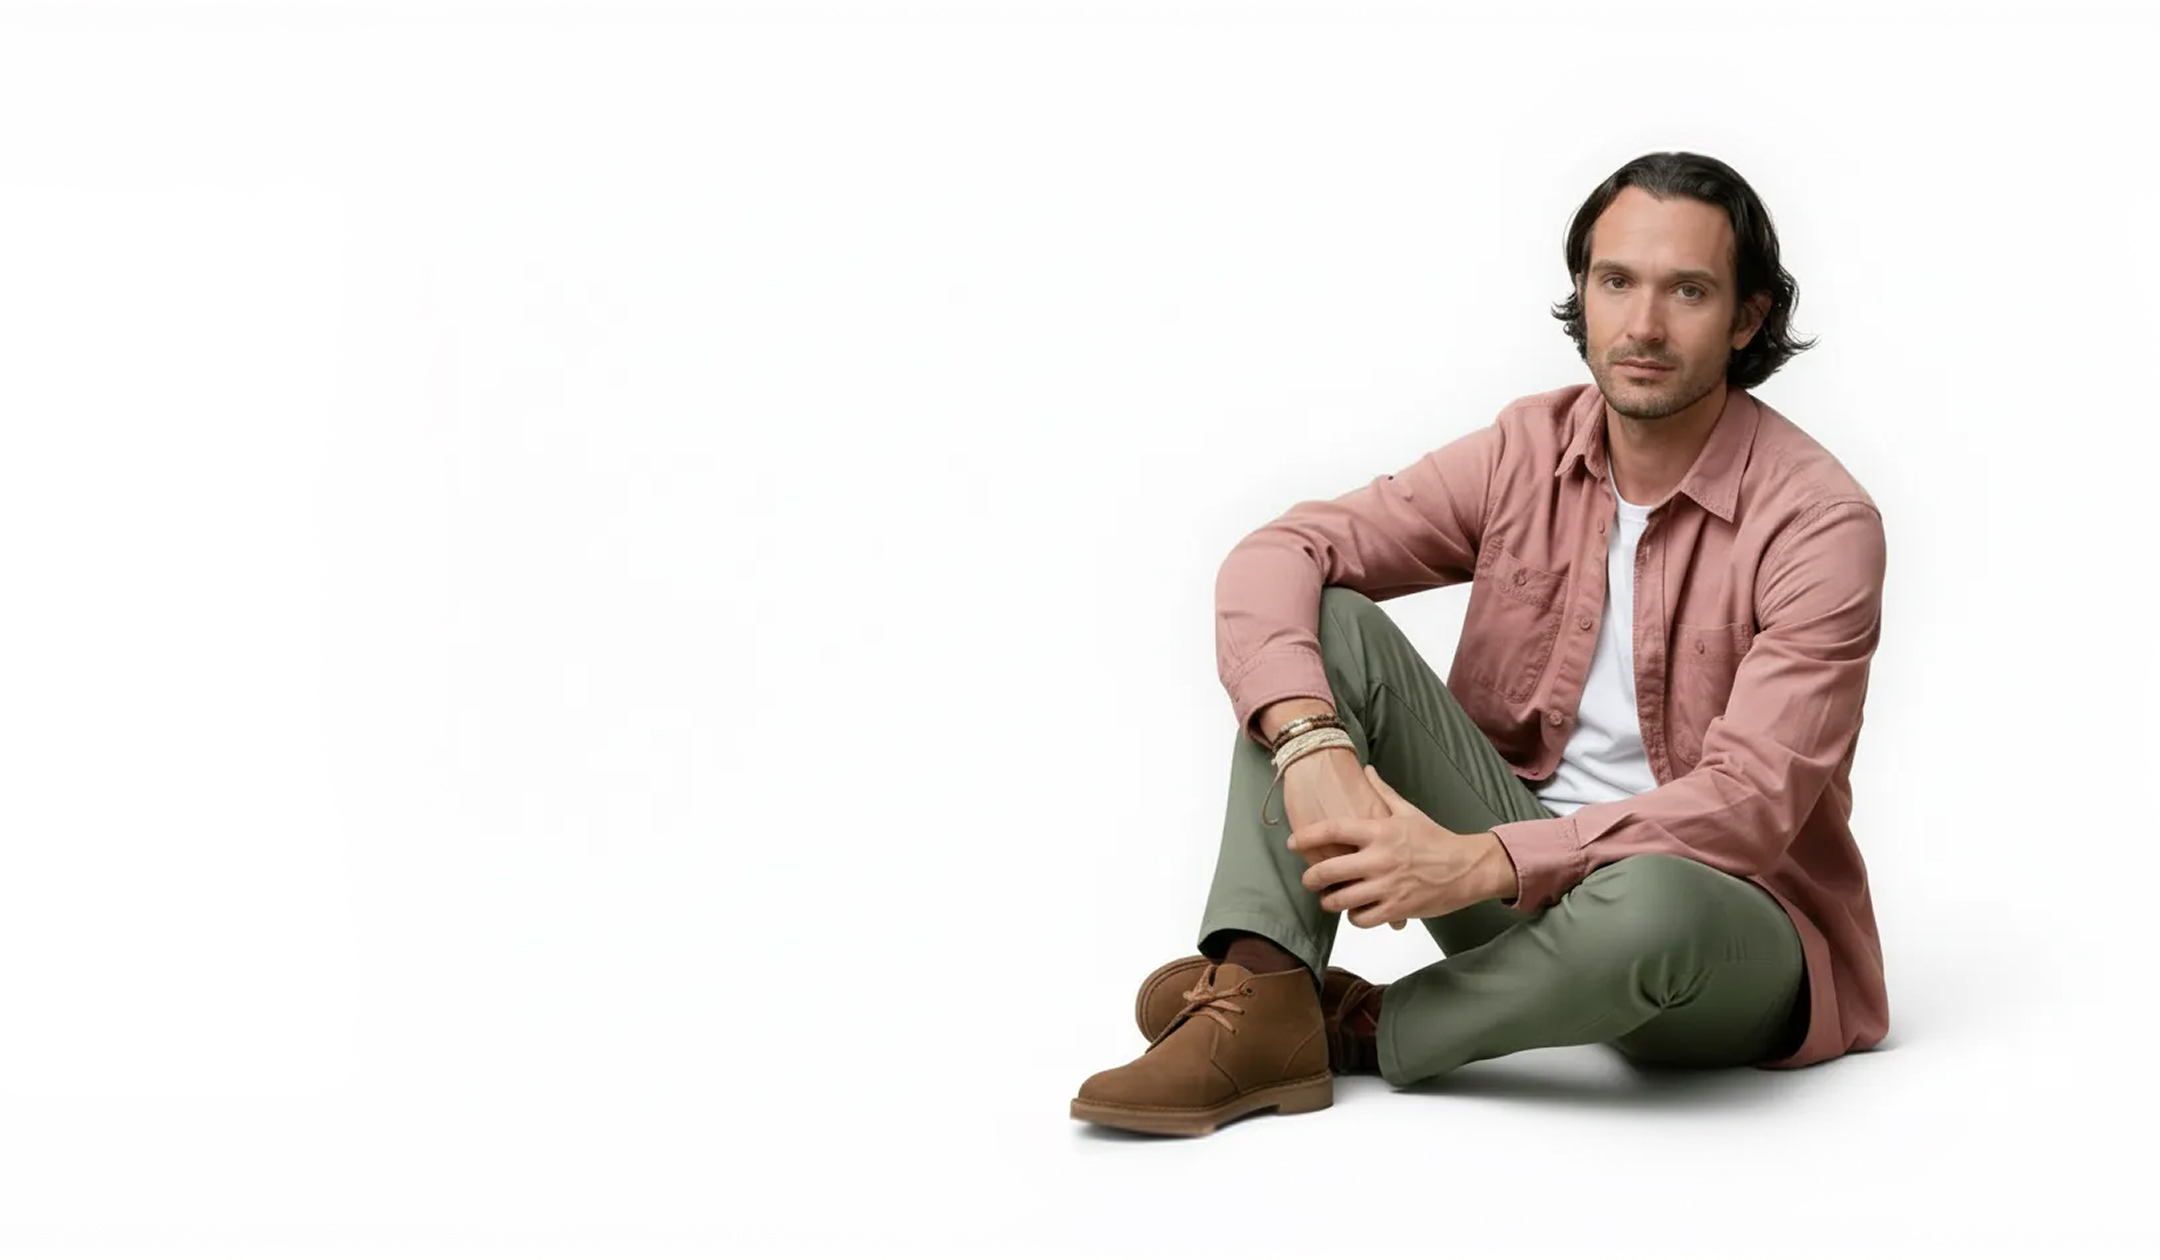
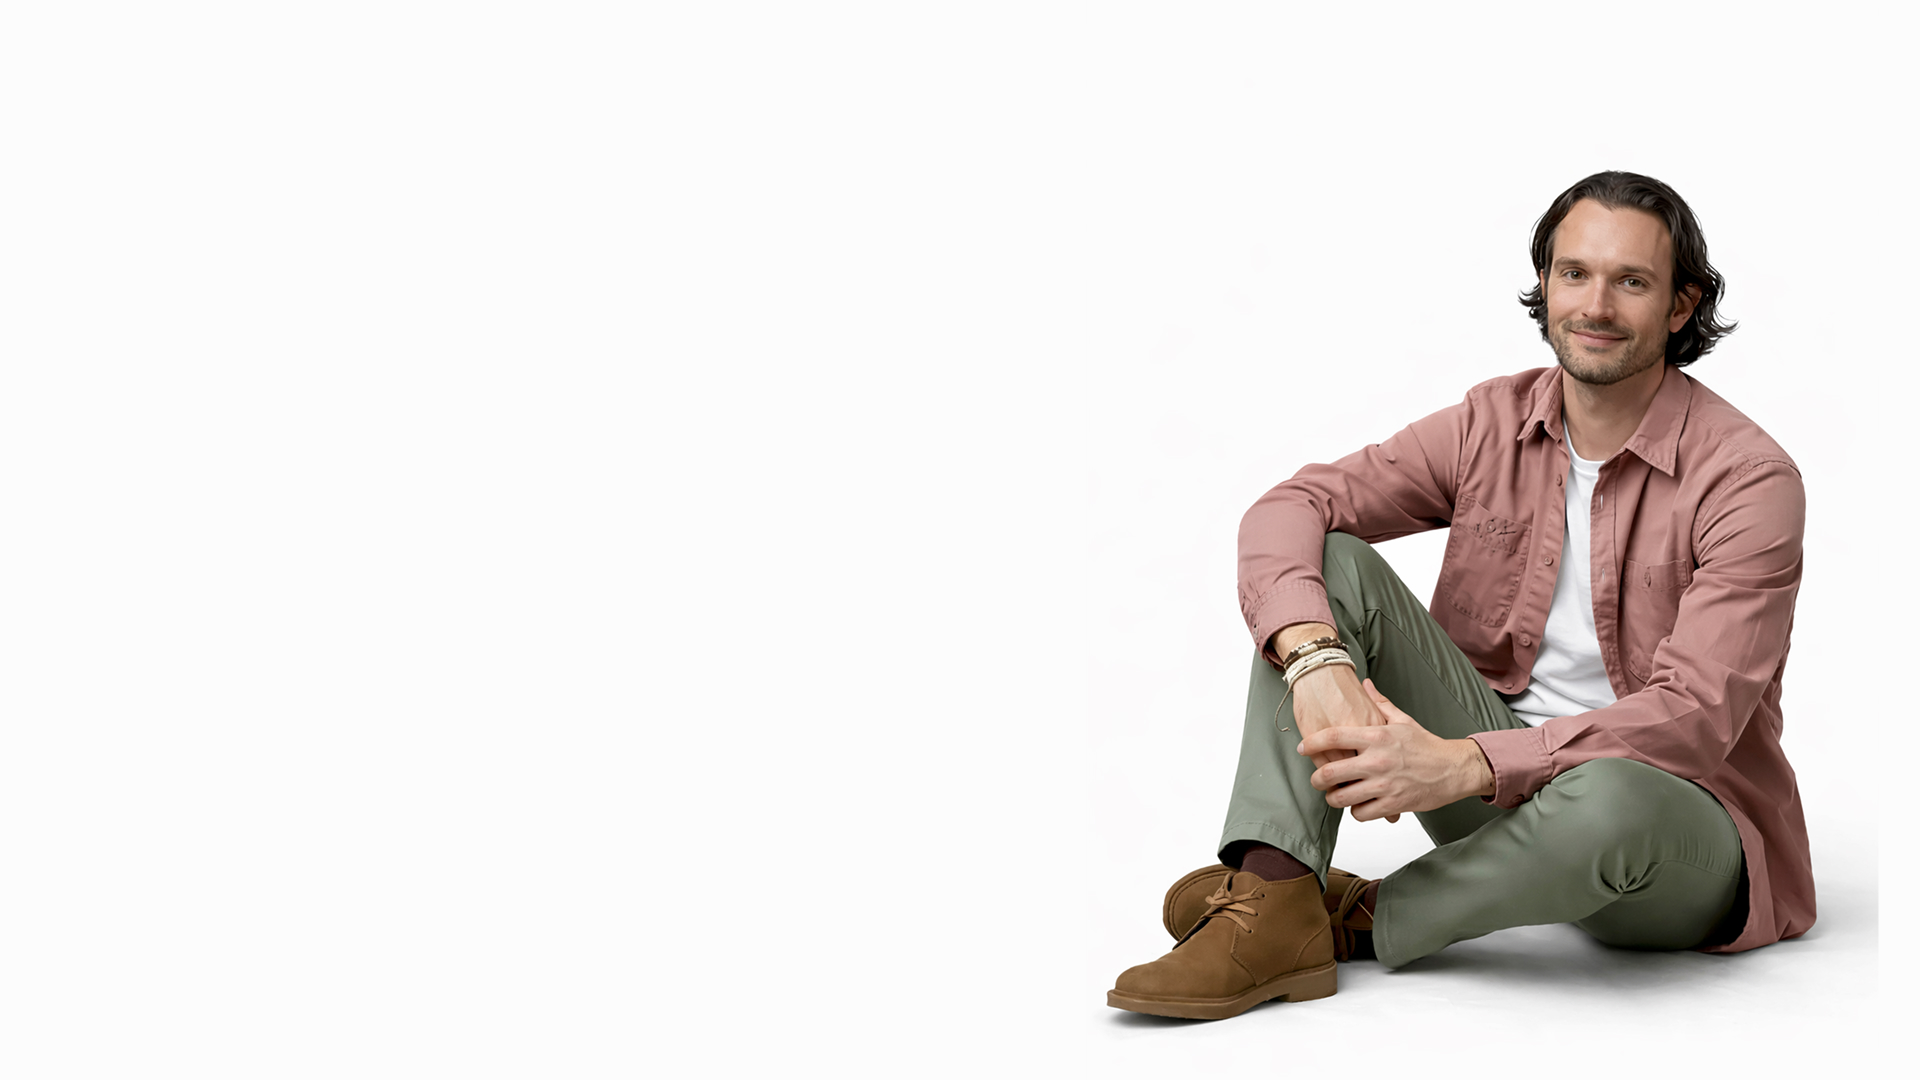
hoempage fix

Changed region(s): [[0.5, 0.1222, 1.0, 0.9778]]

diff --git a/app/style-guide/page.tsx b/app/style-guide/page.tsx
@@ -269,6 +269,85 @@ export default function StyleGuidePage() {
                             </div>
                         </div>
                     </div>
+
+                    {/* Text Colors */}
+                    <div className="mt-12">
+                        <h3 className="text-xl font-medium text-neutral-900 mb-4">Text Colors</h3>
+                        <div className="space-y-8">
+                            {/* Semantic Text Colors */}
+                            <div>
+                                <h4 className="text-sm font-medium text-neutral-500 uppercase tracking-wider mb-4">Semantic Usage</h4>
+                                <div className="grid grid-cols-1 md:grid-cols-3 gap-6">
+                                    <div className="p-6 bg-neutral-50 rounded-2xl">
+                                        <p className="text-2xl font-bold text-neutral-900 mb-2">Primary Text</p>
+                                        <p className="text-sm text-neutral-600 mb-3">Used for headings and main content</p>
+                                        <code className="text-xs bg-neutral-200 px-2 py-1 rounded">text-neutral-900</code>
+                                    </div>
+                                    <div className="p-6 bg-neutral-50 rounded-2xl">
+                                        <p className="text-2xl font-medium text-neutral-600 mb-2">Secondary Text</p>
+                                        <p className="text-sm text-neutral-600 mb-3">Used for body text and descriptions</p>
+                                        <code className="text-xs bg-neutral-200 px-2 py-1 rounded">text-neutral-600</code>
+                                    </div>
+                                    <div className="p-6 bg-neutral-50 rounded-2xl">
+                                        <p className="text-2xl font-medium text-neutral-500 mb-2">Muted Text</p>
+                                        <p className="text-sm text-neutral-600 mb-3">Used for metadata and hints</p>
+                                        <code className="text-xs bg-neutral-200 px-2 py-1 rounded">text-neutral-500</code>
+                                    </div>
+                                </div>
+                            </div>
+
+                            {/* Neutral Scale */}
+                            <div>
+                                <h4 className="text-sm font-medium text-neutral-500 uppercase tracking-wider mb-4">Neutral Scale</h4>
+                                <div className="grid grid-cols-2 md:grid-cols-5 gap-4">
+                                    <div className="p-4 bg-white border border-neutral-100 rounded-xl">
+                                        <p className="text-lg font-medium text-neutral-50 bg-neutral-900 p-1 rounded inline-block mb-2">Neutral 50</p>
+                                        <code className="text-xs block text-neutral-400">text-neutral-50</code>
+                                    </div>
+                                    <div className="p-4 bg-white border border-neutral-100 rounded-xl">
+                                        <p className="text-lg font-medium text-neutral-100 bg-neutral-900 p-1 rounded inline-block mb-2">Neutral 100</p>
+                                        <code className="text-xs block text-neutral-400">text-neutral-100</code>
+                                    </div>
+                                    <div className="p-4 bg-white border border-neutral-100 rounded-xl">
+                                        <p className="text-lg font-medium text-neutral-200 bg-neutral-900 p-1 rounded inline-block mb-2">Neutral 200</p>
+                                        <code className="text-xs block text-neutral-400">text-neutral-200</code>
+                                    </div>
+                                    <div className="p-4 bg-white border border-neutral-100 rounded-xl">
+                                        <p className="text-lg font-medium text-neutral-300 mb-2">Neutral 300</p>
+                                        <code className="text-xs block text-neutral-400">text-neutral-300</code>
+                                    </div>
+                                    <div className="p-4 bg-white border border-neutral-100 rounded-xl">
+                                        <p className="text-lg font-medium text-neutral-400 mb-2">Neutral 400</p>
+                                        <code className="text-xs block text-neutral-400">text-neutral-400</code>
+                                    </div>
+                                    <div className="p-4 bg-white border border-neutral-100 rounded-xl">
+                                        <p className="text-lg font-medium text-neutral-500 mb-2">Neutral 500</p>
+                                        <code className="text-xs block text-neutral-400">text-neutral-500</code>
+                                    </div>
+                                    <div className="p-4 bg-white border border-neutral-100 rounded-xl">
+                                        <p className="text-lg font-medium text-neutral-600 mb-2">Neutral 600</p>
+                                        <code className="text-xs block text-neutral-400">text-neutral-600</code>
+                                    </div>
+                                    <div className="p-4 bg-white border border-neutral-100 rounded-xl">
+                                        <p className="text-lg font-medium text-neutral-700 mb-2">Neutral 700</p>
+                                        <code className="text-xs block text-neutral-400">text-neutral-700</code>
+                                    </div>
+                                    <div className="p-4 bg-white border border-neutral-100 rounded-xl">
+                                        <p className="text-lg font-medium text-neutral-800 mb-2">Neutral 800</p>
+                                        <code className="text-xs block text-neutral-400">text-neutral-800</code>
+                                    </div>
+                                    <div className="p-4 bg-white border border-neutral-100 rounded-xl">
+                                        <p className="text-lg font-medium text-neutral-900 mb-2">Neutral 900</p>
+                                        <code className="text-xs block text-neutral-400">text-neutral-900</code>
+                                    </div>
+                                    <div className="p-4 bg-white border border-neutral-100 rounded-xl">
+                                        <p className="text-lg font-medium text-neutral-950 mb-2">Neutral 950</p>
+                                        <code className="text-xs block text-neutral-400">text-neutral-950</code>
+                                    </div>
+                                </div>
+                            </div>
+                        </div>
+                    </div>
                 </section>
 
                 {/* Border Radius Section */}
@@ -520,3 +599,4 @@ export default function StyleGuidePage() {
         </div>
     );
 }
+

diff --git a/app/featured/credit-portfolio-monitoring/page.tsx b/app/featured/credit-portfolio-monitoring/page.tsx
@@ -1,6 +1,7 @@
 import Image from "next/image";
 import { Inter } from "next/font/google";
 import { TemplateCarousel } from "../../components/ui/TemplateCarousel";
+import { Footer } from "../../components/Footer";
 
 const inter = Inter({ subsets: ["latin"] });
 
@@ -170,7 +171,7 @@ export default function CreditPortfolioMonitoringPage() {
             </section>
 
             {/* 2. Problem Statement Section (Dark) */}
-            <section className="bg-[#171717] text-white py-36 px-14">
+            <section className="bg-[var(--foreground)] text-white py-36 px-14">
                 <div className="max-w-[610px] mx-auto space-y-8">
                     <p className="text-xl leading-relaxed">
                         Banks use this tool to handle risky loans (distressed positions). It helps teams spot early warning signs, understand why a loan is in trouble, and choose the next step.
@@ -185,7 +186,7 @@ export default function CreditPortfolioMonitoringPage() {
             </section>
 
             {/* 3. Goal Section with KPI Cards */}
-            <section className="relative bg-[#171717] min-h-[960px] overflow-hidden flex flex-col justify-start items-center">
+            <section className="relative bg-[var(--foreground)] min-h-[960px] overflow-hidden flex flex-col justify-start items-center">
                 {/* Background Image */}
                 <div className="absolute inset-0 z-0">
                     <Image
@@ -199,7 +200,7 @@ export default function CreditPortfolioMonitoringPage() {
                 <div 
                     className="absolute inset-0 z-10"
                     style={{
-                        background: "linear-gradient(to bottom, #171717 15%, rgba(23,23,23,0.05) 40%, #171717 85%)",
+                        background: "linear-gradient(to bottom, var(--foreground) 15%, rgba(23,23,23,0.05) 40%, var(--foreground) 85%)",
                     }}
                 />
                 
@@ -451,6 +452,7 @@ The benefits of the design work were many. Not only did it improve internal comm
                     </p>
                 </div>
             </section>
+            <Footer />
         </div>
     );
 }

diff --git a/app/components/Hero.tsx b/app/components/Hero.tsx
@@ -10,16 +10,16 @@ export function Hero() {
                 src="/hero.jpg"
                 alt="Hero Background"
                 fill
-                className="object-cover object-center object-bottom -z-10"
+                className="object-cover object-[85%_100%] md:object-right-bottom -z-10"
                 priority
             />
             <div className="absolute inset-0 bg-white/20 -z-10" />
             <div className="w-full max-w-[88rem] mx-auto px-12 pt-0 flex items-start">
 
                 {/* Left Column: Content */}
-                <div className="w-full max-w-[50rem] ">
-                    <div className="space-y-6 flex flex-col gap-6 mb-16">
-                        <p className="text-neutral-500 text-sm font-medium tracking-[0.1em] uppercase">
+                <div className="w-full max-w-[50rem]">
+                    <div className="flex flex-col gap-2 mb-0">
+                        <p className="text-neutral-500 text-lg font-medium tracking-[0.1em] uppercase">
                             Product Designer focused on AI-ready Design Systems
                         </p>
                         <h1 className="text-6xl font-bold tracking-tight text-neutral-900 leading-[0.9]">
@@ -28,7 +28,7 @@ export function Hero() {
                         </h1>
                     </div>
 
-                    <p className="max-w-xl pt-16 text-lg text-neutral-600 leading-relaxed font-medium">
+                    <p className="text-2xl max-w-xl pt-8 text-neutral-600 font-medium">
                         Most of my work lives in enterprise risk and credit platforms, where analysts rely on clear interfaces to act fast. I focus on reusable patterns, decision-support dashboards, and workflows that reduce cognitive load instead of adding more charts.
                     </p>
                 </div>

diff --git a/app/components/Footer.tsx b/app/components/Footer.tsx
@@ -3,16 +3,14 @@ import Link from "next/link";
 
 export function Footer() {
     return (
-        <footer className="bg-[var(--ink-extra)] py-12 px-6">
+        <footer className="bg-[var(--foreground)] py-12 px-6">
             <div className="mx-auto max-w-7xl flex flex-col md:flex-row items-center justify-between gap-6">
                 <div className="text-white/60 text-sm">
-                    © {new Date().getFullYear()} Leonardo De Murtas. All rights reserved.
+                    © {new Date().getFullYear()} Leonardo Demurtas. All rights reserved.
                 </div>
 
                 <div className="flex gap-6 text-sm text-white/60">
-                    <Link href="#" className="hover:text-white transition-colors">Twitter</Link>
-                    <Link href="#" className="hover:text-white transition-colors">LinkedIn</Link>
-                    <Link href="#" className="hover:text-white transition-colors">Dribbble</Link>
+                    <Link href="http://www.linkedin.com/in/leonardodemurtas" className="hover:text-white transition-colors" target="_blank">LinkedIn</Link>
                 </div>
             </div>
         </footer>

diff --git a/app/layout.tsx b/app/layout.tsx
@@ -22,7 +22,6 @@ export const metadata: Metadata = {
 
 
 import { Header } from "./components/Header";
-import { Footer } from "./components/Footer";
 
 export default function RootLayout({
   children,
@@ -43,7 +42,6 @@ export default function RootLayout({
           <main className="flex-grow w-full mx-auto">
             {children}
           </main>
-          <Footer />
         </div>
       </body>
     </html>

diff --git a/app/page.tsx b/app/page.tsx
@@ -1,11 +1,13 @@
 import { Hero } from "./components/Hero";
 import { FeaturedProjects } from "./components/FeaturedProjects";
+import { Footer } from "./components/Footer";
 
 export default function Home() {
   return (
     <>
       <Hero />
       <FeaturedProjects />
+      <Footer />
     </>
   );
 }
